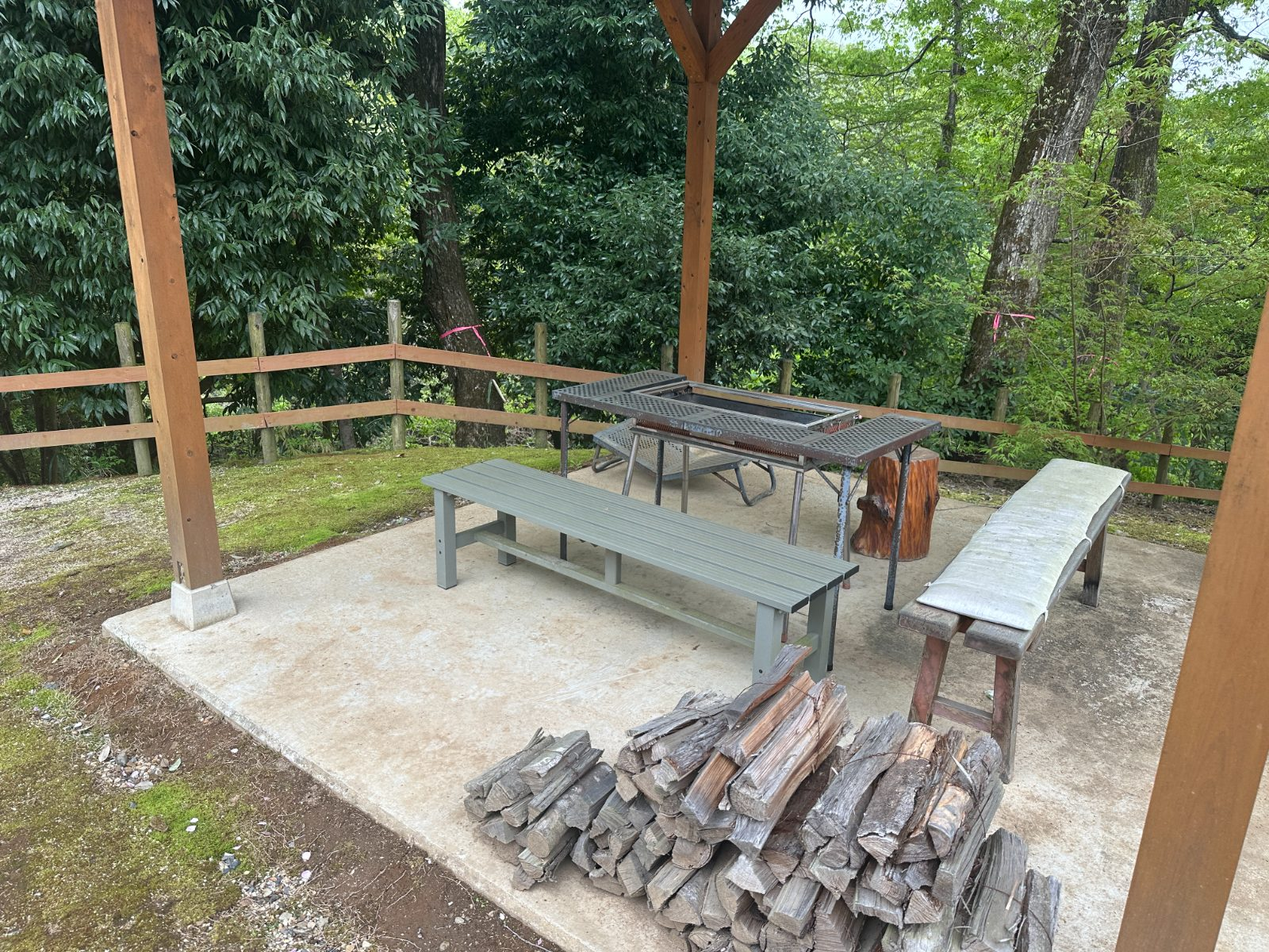
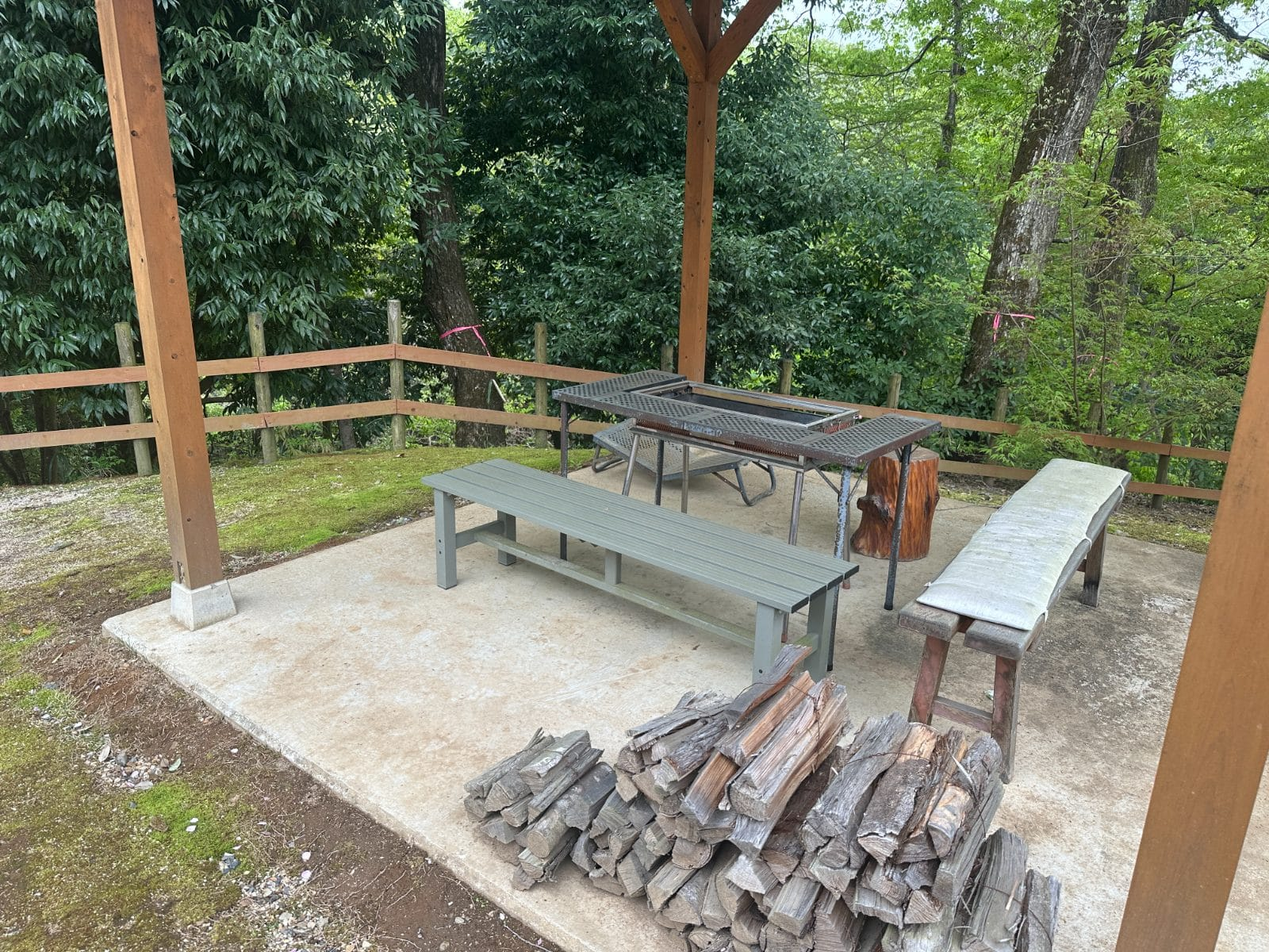
画像圧縮 + React本番ビルドに切替で読み込み速度を改善
画像最適化（合計 34.5MB → 7.2MB）
- 全 JPG を max-width 1600px / quality 80 で再エンコード（mozjpeg）
- 一番大きかったメニュー写真 11 枚は 2〜4MB → 200〜350KB（約90%削減）
- 既存の小さい写真はスキップ
- EXIF orientation を物理回転として焼き込み

React 本番ビルドに切替
- react.development.js → react.production.min.js
- react-dom.development.js → react-dom.production.min.js
- 開発用ビルドの警告コード等を含まない最小化版に

メニュー card の <img> に decoding=async を追加

diff --git a/index.html b/index.html
@@ -13,8 +13,8 @@
   <link rel="stylesheet" href="src/styles.css" />
 
   <!-- React + Babel -->
-  <script src="https://unpkg.com/react@18.3.1/umd/react.development.js" crossorigin="anonymous"></script>
-  <script src="https://unpkg.com/react-dom@18.3.1/umd/react-dom.development.js" crossorigin="anonymous"></script>
+  <script src="https://unpkg.com/react@18.3.1/umd/react.production.min.js" crossorigin="anonymous"></script>
+  <script src="https://unpkg.com/react-dom@18.3.1/umd/react-dom.production.min.js" crossorigin="anonymous"></script>
   <script src="https://unpkg.com/@babel/standalone@7.29.0/babel.min.js" crossorigin="anonymous"></script>
 
   <script src="src/image-slot.js"></script>

diff --git a/src/sections.jsx b/src/sections.jsx
@@ -335,7 +335,7 @@ function MkMenu({ menuMode }) {
                   >
                     {isCard && (
                       <div className="mk-menu__itemImg">
-                        <img src={it.img} alt={it.name} loading="lazy" />
+                        <img src={it.img} alt={it.name} loading="lazy" decoding="async" />
                       </div>
                     )}
                     <div className="mk-menu__itemBody">
